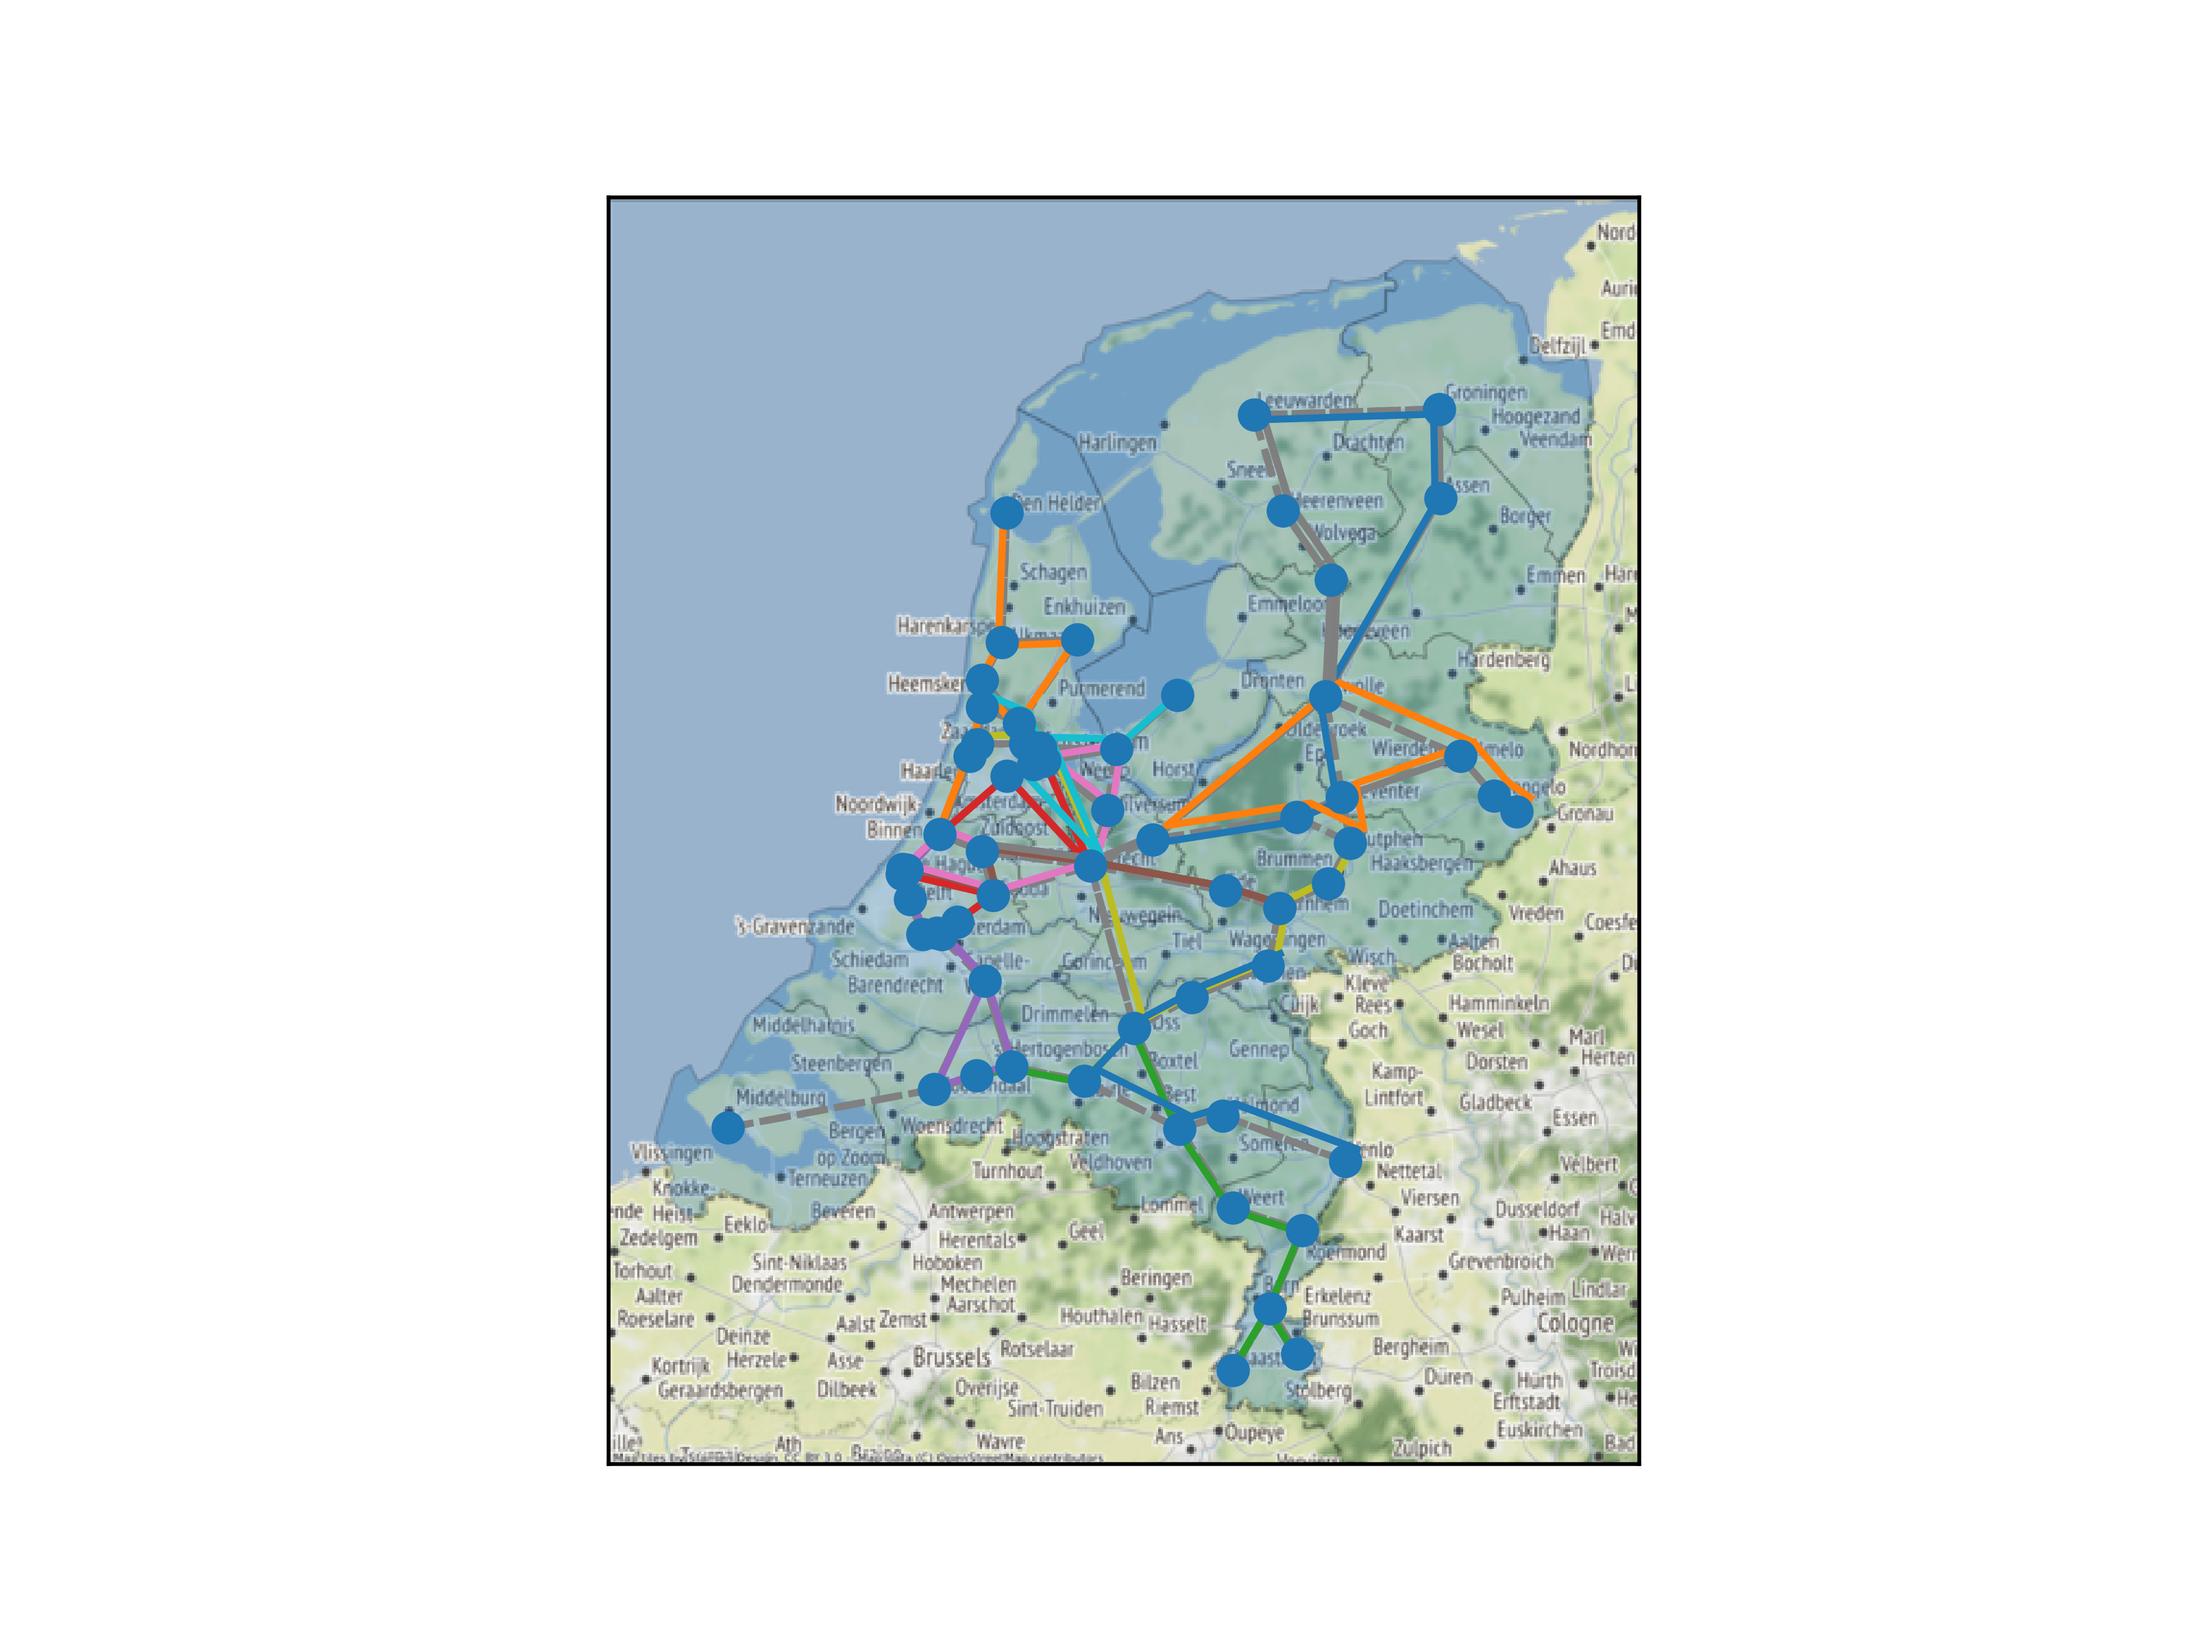
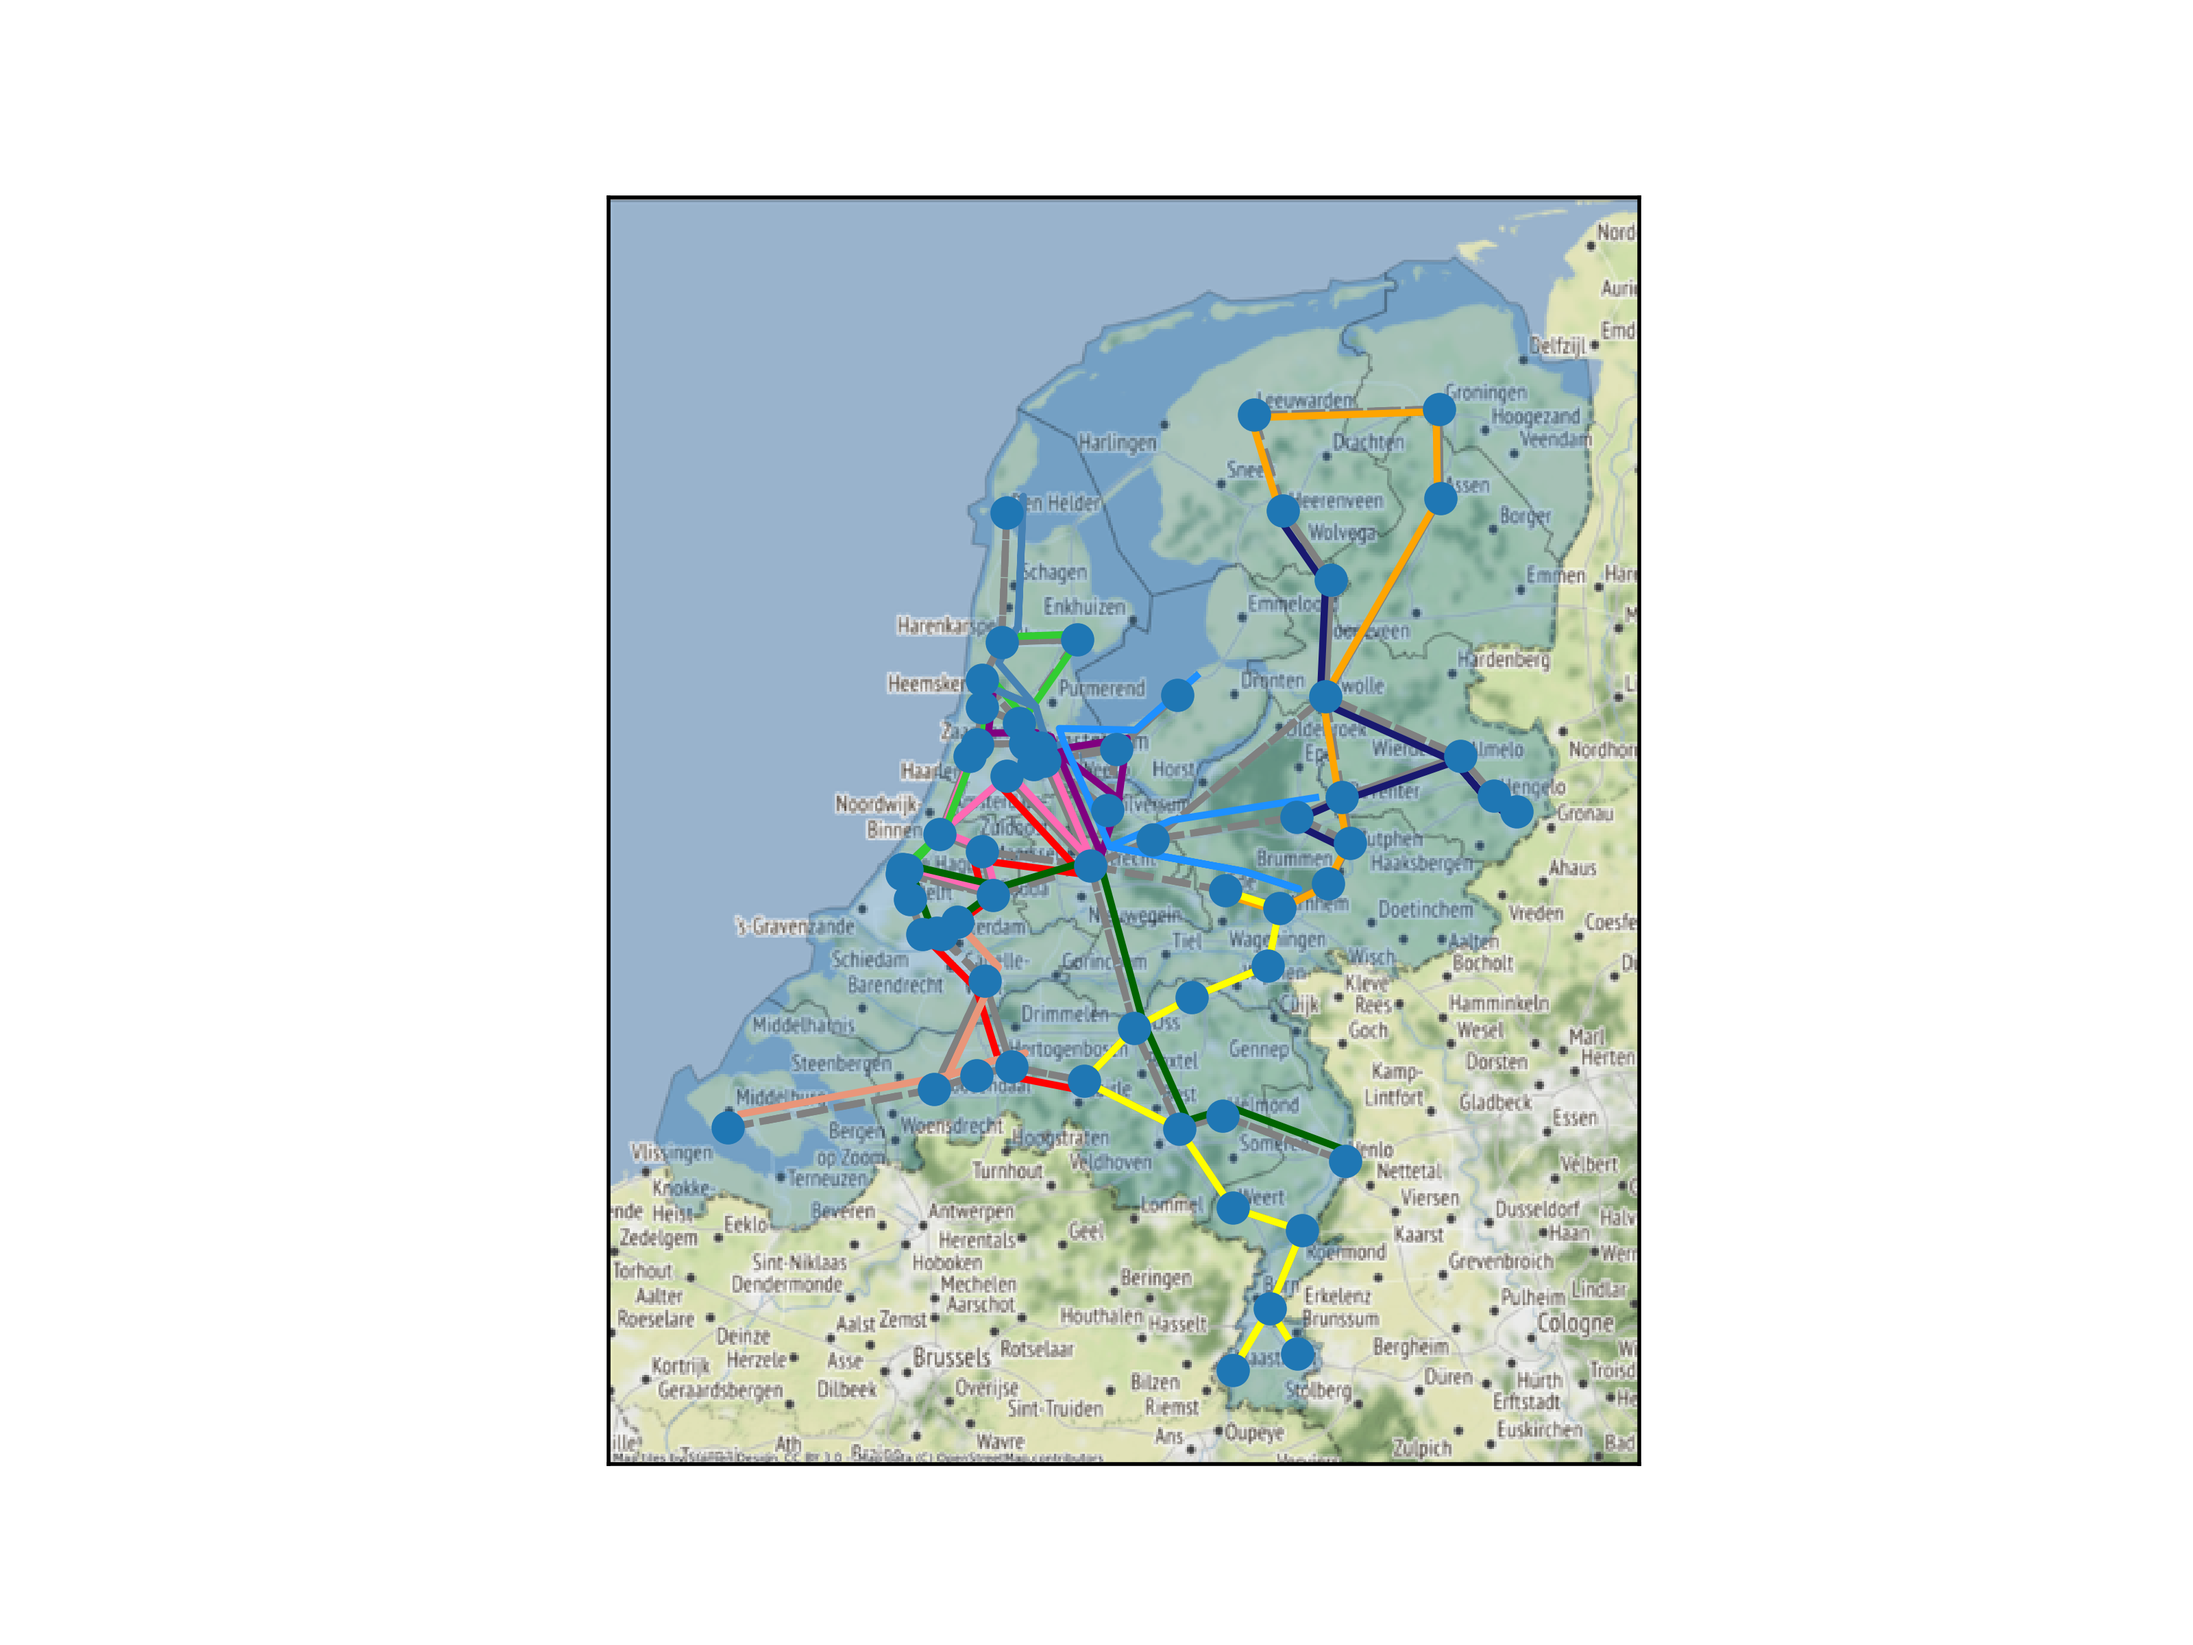
fixed colours in visualisation

diff --git a/program/analysis_visualisation/visualisation.py b/program/analysis_visualisation/visualisation.py
@@ -43,6 +43,8 @@ def visualize(network: 'Network', which_region = 'holland') -> None:
     # set map as background plot of specific size
     ax.imshow(img, extent=[3.1, 7.4, 50.62, 53.73], aspect=1.7)
 
+    cols = ['red', 'midnightblue', 'orange', 'yellow', 'hotpink', 'limegreen', 'darkgreen', 'purple', 'darksalmon', 'steelblue', 'dodgerblue', 'maroon', 'blue', 'indigo', 'darkviolet', 'magenta', 'olivedrab', 'saddlebrown', 'white', 'lawngreen']
+
     # PLOT ALL CONNECTIONS
     # loop through all stations in the network_graph
     for station in stations:
@@ -81,7 +83,7 @@ def visualize(network: 'Network', which_region = 'holland') -> None:
             x_traj.append(station_coords[0])
             y_traj.append(station_coords[1])
         # plot the trajectory
-        plt.plot(x_traj, y_traj, transform=mtrans.offset_copy(ax.transData, fig=fix, x=(i-3)*0.005, y=(i-3)*0.005))
+        plt.plot(x_traj, y_traj, color=cols[i], transform=mtrans.offset_copy(ax.transData, fig=fix, x=(i-3)*0.008, y=(i-3)*0.008))
         # plt.plot(x_traj, y_traj)
 
     # unzip the tuples and plot them

diff --git a/main.py b/main.py
@@ -14,18 +14,18 @@ from program.analysis_visualisation.boxplot import boxplot_eind, lineplot, boxpl
 #   greedy for the least or most amount of connections
 #   and showing either starting at a random station 
 #   or a station with the least amount of connections
-boxplot_connections(iteration = 1000)
+# boxplot_connections(iteration = 1000)
 
-# # make a boxplot showing the greedy algorithm wich is
-# #   greedy for the longest or shortest connection
-boxplot_time(iteration = 1000)
+# # # make a boxplot showing the greedy algorithm wich is
+# # #   greedy for the longest or shortest connection
+# boxplot_time(iteration = 1000)
 
-# make a boxplot which shows all the algorithms
-boxplot_eind(iteration = 100)
+# # make a boxplot which shows all the algorithms
+# boxplot_eind(iteration = 100)
 
 # --- find and save a (the best we'll find) solution ---
 sol = random_restart(10, 50, 'connect_with', tell_me = True)[0]
-write_to_csv(sol)
+#write_to_csv(sol)
 visualize(sol, 'nl')
 
 

diff --git a/program/analysis_visualisation/baseline.py b/program/analysis_visualisation/baseline.py
@@ -58,7 +58,7 @@ def hist(iteration: int, which_regions: str = 'holland', start: str = 'random') 
     plt.text(mean(solutions) * 1.01, max_ylim * 0.9, 'Mean: {:.2f}'.format(mean(solutions)))
 
     # save and show the histogram
-    plt.savefig('output/baseline_hist_no_bias.png')
+    plt.savefig('output/{which_regions}/Baseline/baseline_hist_no_bias.png')
     plt.show()
 
 def run(which_regions: str = 'holland', start: str = 'random') -> Union[float, bool]:
